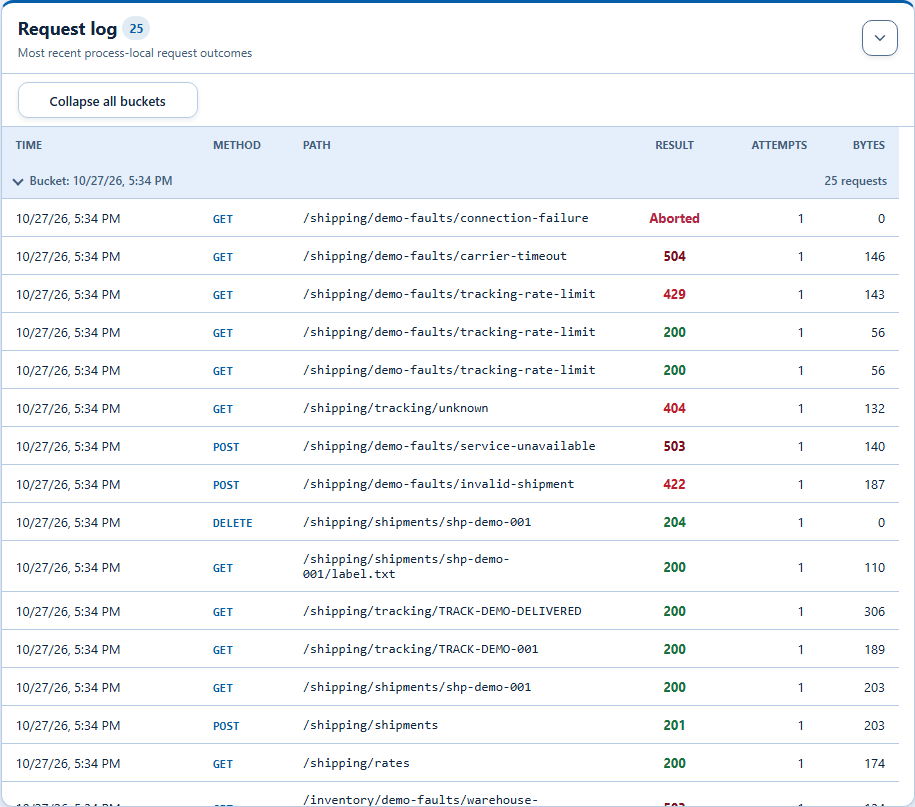
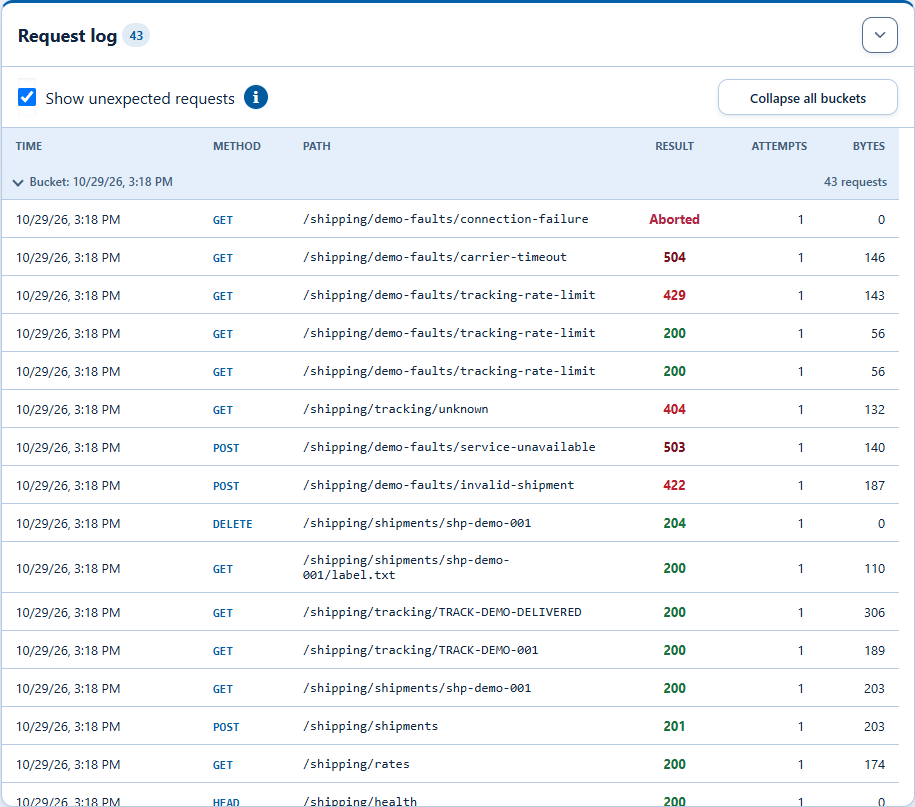
Update documentation images

diff --git a/site/index.html b/site/index.html
@@ -76,7 +76,7 @@
     <meta property="og:image" content="https://mockapi.simondoescloud.com/dashboard.png" />
     <meta
       property="og:image:alt"
-      content="MockAPI dashboard with 23 Trailhead Supply inventory and shipping example endpoints, request statistics, and a populated request log."
+      content="MockAPI dashboard with 41 Trailhead Supply example endpoints grouped by API, request statistics, and a populated request log."
     />
     <meta name="twitter:card" content="summary_large_image" />
     <meta name="twitter:title" content="MockAPI | Open-Source, Self-Hosted Mock API Server" />
@@ -87,7 +87,7 @@
     <meta name="twitter:image" content="https://mockapi.simondoescloud.com/dashboard.png" />
     <meta
       name="twitter:image:alt"
-      content="MockAPI dashboard with 23 Trailhead Supply inventory and shipping example endpoints, request statistics, and a populated request log."
+      content="MockAPI dashboard with 41 Trailhead Supply example endpoints grouped by API, request statistics, and a populated request log."
     />
     <script type="application/ld+json">
       {
@@ -223,7 +223,7 @@
                 src="./dashboard.webp"
                 width="1905"
                 height="1500"
-                alt="MockAPI dashboard with 23 Trailhead Supply inventory and shipping example endpoints, request statistics, and a populated request log."
+                alt="MockAPI dashboard with 41 Trailhead Supply example endpoints grouped by API, request statistics, and a populated request log."
               />
             </a>
             <figcaption>
@@ -248,15 +248,15 @@
               <img
                 src="./dashboard-endpoints.webp"
                 width="915"
-                height="1833"
-                alt="Twenty-three Trailhead Supply endpoints under /inventory and /shipping showing HTTP methods, paths, response codes, attempt counts, and editing controls."
+                height="2083"
+                alt="Trailhead Supply endpoint registry with the AI assistant group collapsed and inventory and shipping groups expanded, showing HTTP methods, paths, response codes, attempt counts, editing controls, and cURL copy actions."
               />
             </a>
             <figcaption>
               <strong>Example endpoints.</strong>
-              This capture shows the inventory and shipping subset; Load examples also includes the AI assistant.
-              Inventory, reservations, shipping, tracking, rate limiting, server errors, and connection aborts, with
-              controls to test and edit each definition.
+              This capture expands inventory and shipping while keeping the AI assistant group collapsed. Inventory,
+              reservations, shipping, tracking, rate limiting, server errors, and connection aborts, with controls to
+              test and edit each definition.
             </figcaption>
           </figure>
           <figure
@@ -276,12 +276,12 @@
                 src="./dashboard-request-log.webp"
                 width="915"
                 height="807"
-                alt="Trailhead Supply request log with a 25-request sample and recent HTTP 200, 429, and 504 outcomes."
+                alt="Trailhead Supply request log with a 43-request sample, the unexpected-request filter, and recent HTTP 200, 429, and 504 outcomes."
               />
             </a>
             <figcaption>
               <strong>Request log.</strong>
-              Recent entries from a 25-request sample, with UTC timestamps by default, methods, paths, HTTP outcomes,
+              Recent entries from a 43-request sample, with UTC timestamps by default, methods, paths, HTTP outcomes,
               transport attempts, and response byte counts. Choose local time in Settings if preferred.
             </figcaption>
           </figure>

diff --git a/tests/site/landing.spec.js b/tests/site/landing.spec.js
@@ -655,7 +655,7 @@ test("dashboard gallery supports named views, wrapping controls, keyboard naviga
       .evaluateAll((images) => images.map((image) => [image.naturalWidth, image.naturalHeight]))
   ).toEqual([
     [1905, 1500],
-    [915, 1833],
+    [915, 2083],
     [915, 807],
   ]);
   expect(

diff --git a/README.md b/README.md
@@ -69,7 +69,7 @@ Keep administrative access on localhost or a protected network unless you config
 > Use an explicit published version tag; there is no `latest` image alias. Source on `main` can include
 > unreleased changes listed in the [changelog](CHANGELOG.md#unreleased).
 
-![MockAPI dashboard showing Trailhead Supply inventory and shipping examples, configuration commands, live request metrics, the last-60-minutes activity graph, and recent request outcomes.](docs/images/01-dashboard-overview.png)
+![MockAPI dashboard showing Trailhead Supply example API groups, expanded inventory endpoints, configuration commands, live request metrics, the last-60-minutes activity graph, and recent request outcomes with an unexpected-request filter.](docs/images/01-dashboard-overview.png)
 
 The browser dashboard is the operations console: load or import a configuration, watch live request metrics, and manage every mock endpoint in one place.
 
@@ -186,7 +186,7 @@ MockAPI is intentionally narrower than a general-purpose API virtualization plat
   credentials protect security Settings, while anonymous local administration can perform initial setup.
 - **Hardened portable runtime:** Run as a trimmed, non-root Linux container on `amd64` and `arm64`, including with a read-only root filesystem.
 
-![Endpoint registry table listing Trailhead Supply examples with their methods, group-relative paths, configured responses, attempt counts, and enabled state, plus per-row test, edit, duplicate, and delete actions.](docs/images/02-endpoints.png)
+![Endpoint registry table listing Trailhead Supply examples with their methods, group-relative paths, configured responses, attempt counts, and enabled state, plus per-row test, edit, duplicate, delete, and cURL copy actions.](docs/images/02-endpoints.png)
 
 The endpoint registry lists every mock with its method, exact path, configured response, and live request count, and offers per-row test, edit, duplicate, and delete actions. Use the checkbox beside an API heading to select or clear all of that API's endpoints matching the current filters, even while its group is collapsed. Partial selections show a mixed checkbox state; selections in other APIs and endpoints hidden by filters are preserved. Selected endpoints can be enabled, disabled, or deleted together.
 
